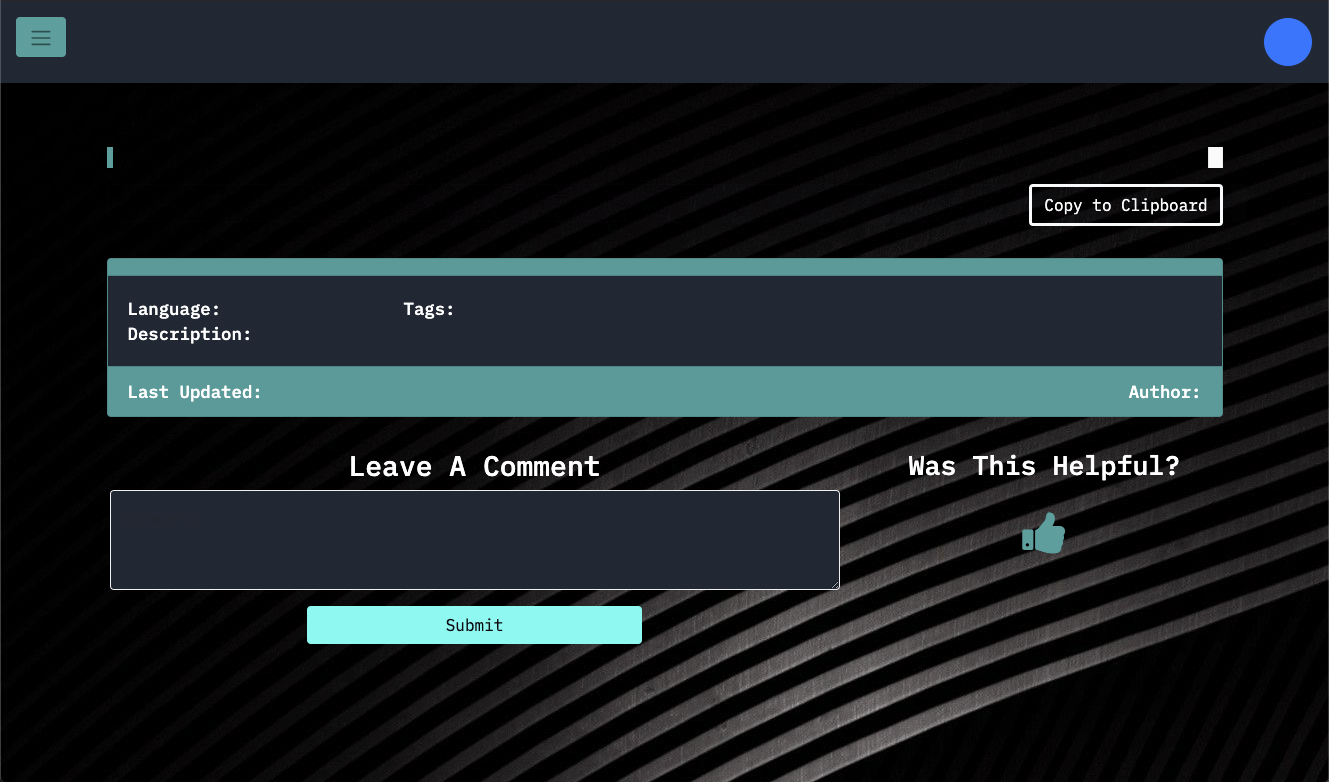
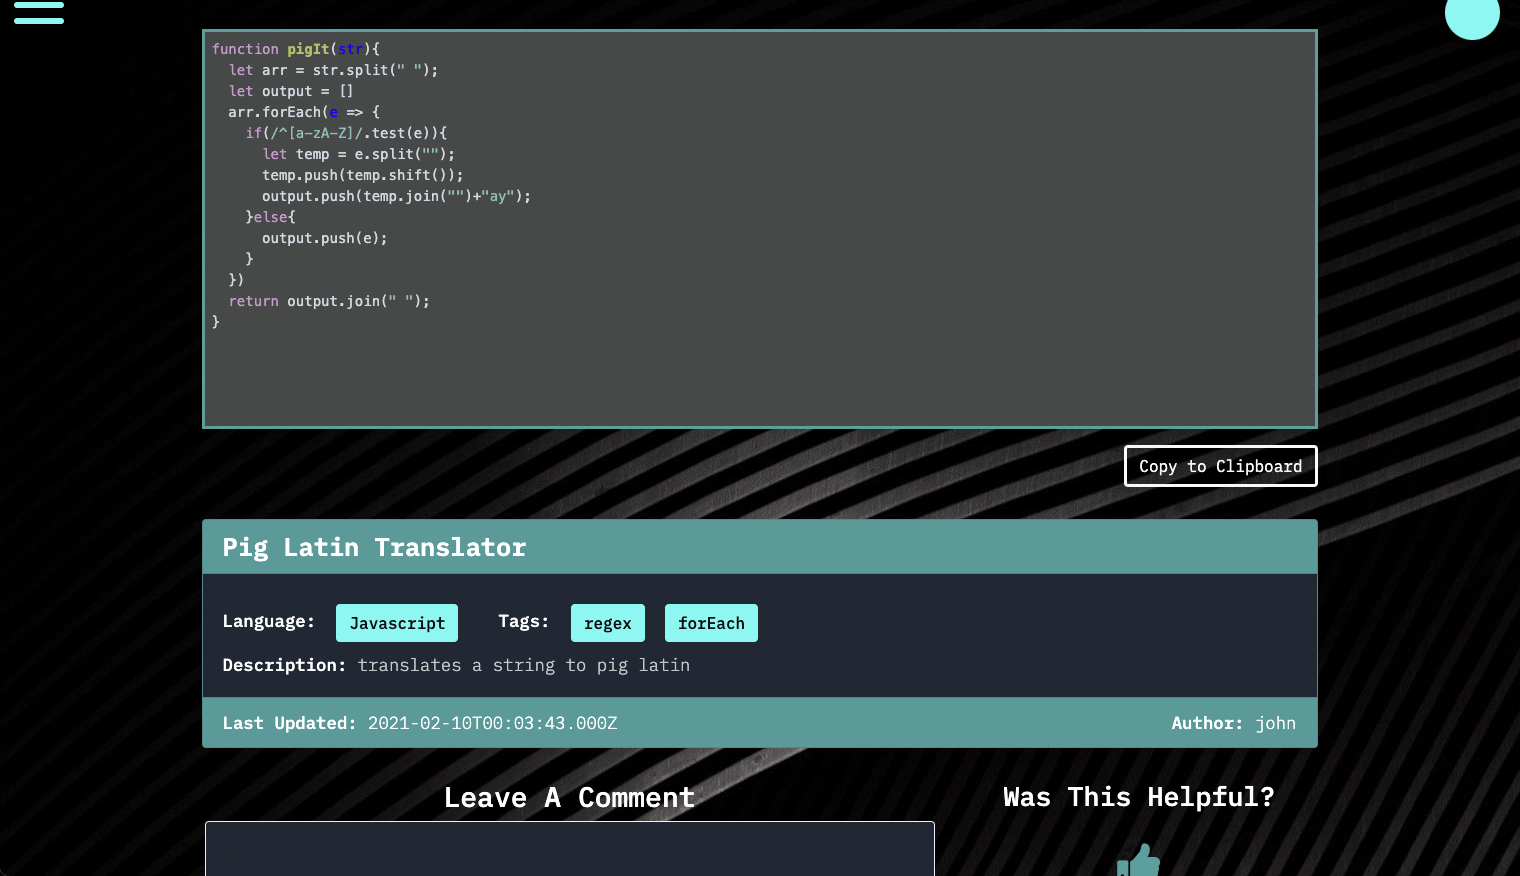
replaced project screenshots for snippets

diff --git a/src/components/ProjectCard/index.js b/src/components/ProjectCard/index.js
@@ -8,7 +8,7 @@ import Musicology2 from "./img/Musicology/musicology.png";
 import Musicology3 from "./img/Musicology/socialTab.png";
 
 import Snippets1 from "./img/Snippets/home.png";
-import Snippets2 from "./img/Snippets/signup.png";
+import Snippets2 from "./img/Snippets/browse.png";
 import Snippets3 from "./img/Snippets/details.png";
 
 
